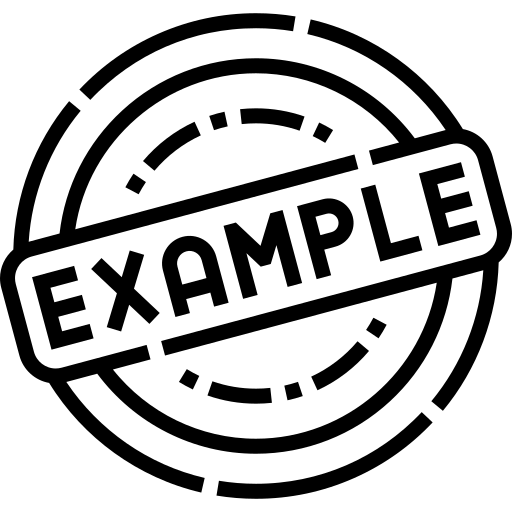
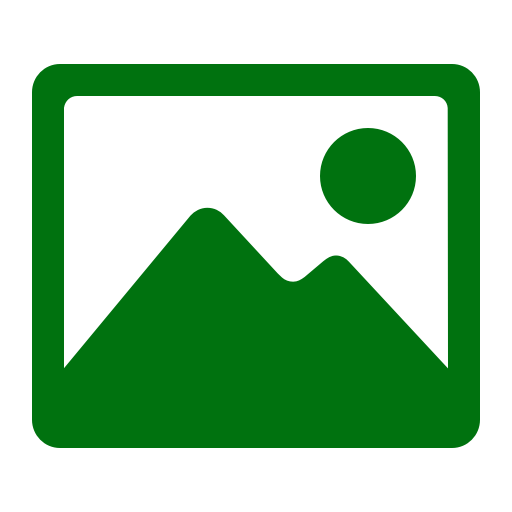
Add CSS guide, button styles, and update image
Expanded README with a new Language Comparison section and a comprehensive CSS guide (selectors, declarations, classes/IDs, pseudo-classes, transitions, and helpful hints). Adjusted heading "Tags vs Attributes vs Element" and removed a duplicated language-comparison block at the end of the file. Updated src/style.html to add .tweet-button and .shadow-button styles (with hover transitions/shadow) and inserted two demo buttons that trigger alerts. Updated the example image (binary file changed). These changes add documentation and a small interactive styling demo.

diff --git a/src/style.html b/src/style.html
@@ -23,6 +23,38 @@
         .important{
             color: red
         }
+
+        .tweet-button {
+            color: white;
+            background-color: blue;
+            border: none;
+            padding: 10px 20px;
+            font-size: 16px;
+            cursor: pointer;
+            height: 40px;
+            width: 100px;
+            border-radius: 20px;
+            transition: background-color 0.3s ease;
+        }
+            .tweet-button:hover {
+                background-color: lightblue;
+            }
+
+        .shadow-button {
+            color: white;
+            background-color: green;
+            border: none;
+            padding: 10px 20px;
+            font-size: 16px;
+            cursor: pointer;
+            height: 40px;
+            width: 100px;
+            border-radius: 20px;
+            transition: box-shadow 0.3s ease;
+        }
+            .shadow-button:hover {
+                box-shadow: 0 10px 16px white;
+            }
     </style>
 
     <h1>HTML Styling</h1>
@@ -38,6 +70,13 @@
     <p class="important">
         This is important!
     </p>
+
+    <button class="tweet-button" onclick="alert('You clicked the button!')">Tweet</button>
+    <!--Defines a button element that triggers a JavaScript alert when clicked. -->
+
+    
+    <button class="shadow-button" onclick="alert('You clicked the button!')">Hover</button>
+    <!--Defines a button element that triggers a JavaScript alert when clicked. -->
 
 </body>
 </html>

diff --git a/README.md b/README.md
@@ -18,6 +18,26 @@ However, there are certain elements, such as `<pre>`, that preserve white space.
 
 Even <p>Hello   world</p> will be rendered as "Hello world" in the browser, with only a single space between "Hello" and "world".
 
+ ## Language Comparison
+
+ ### HTML vs CSS
+ HTML is used to structure the content of a web page, while CSS (Cascading Style Sheets) is used to style and layout the content.
+ 
+ They work together to create visually appealing and well-structured web pages.
+ CSS applies styles to HTML elements, allowing developers to control the appearance of the web page, such as colors, fonts, and layout.
+
+ ### HTML vs JavaScript
+ HTML is used to structure the content of a web page, while JavaScript is a programming language that is used to add interactivity and dynamic behavior to web pages.
+
+ ### JavaScript vs TypeScript
+ JavaScript is a programming language that is commonly used for web development.
+ TypeScript is a superset of JavaScript that adds static typing and other features to the language.
+
+ TypeScript can help catch errors at compile time and improve code maintainability, while JavaScript is more flexible and widely supported across different environments.
+
+ Can be used together in a project, with TypeScript being transpiled to JavaScript for execution in the browser.
+ TypeScript cannot run directly in the browser, but it can be transpiled to JavaScript using tools like the TypeScript compiler (tsc) or Babel.
+
 ## Basics of web development
 Web development is the process of creating websites and web applications.
 
@@ -68,7 +88,7 @@ The basic structure of an HTML document includes the following elements:
  </html>
  ```
 
- ## Tags vs Attributes
+ ## Tags vs Attributes vs Element
  In HTML, tags are used to define elements, while attributes provide additional information about those elements.
  For example, in the `<a>` tag, `href` is an attribute that specifies the URL of the link:
  ```html
@@ -127,7 +147,6 @@ Symbols (Entitys):
  The index.html is the main entry point of the website. 
  It is the file that is loaded when a user visits the website.
 
-
  ## Terms
  Block-level elements: These elements typically start on a new line and take up the full width of their container. Examples include `<div>`, `<p>`, and `<h1>`.
  For example:
@@ -156,6 +175,104 @@ Symbols (Entitys):
  Do not rely on HTML elements being hidden or invisible for security purposes, as they can still be accessed and viewed by users through inspection tools.
  HTML is rendered on the client side, meaning that it is processed and displayed by the user's browser so do not include sensitive information in the HTML code, as it can be easily accessed by users.
 
+  ## CSS
+ To write CSS with an HTML document we need to add a style element <style>.
+
+Example:
+```html
+<style>
+  body {
+	background-color: lightblue;
+  }
+  h1 {
+	color: white;
+	text-align: center;
+  }
+  p {
+	font-family: verdana;
+	font-size: 20px;
+  }
+</style>
+```
+
+The first word in the CSS rule is called a selector, which specifies the HTML element to which the styles will be applied. 
+In the example above, `body`, `h1`, and `p` are selectors that target the `<body>`, `<h1>`, and `<p>` elements in the HTML document, respectively.
+
+Inside the brackets `{}`, we have a declaration block that contains one or more declarations. 
+Each declaration consists of a property and a value, separated by a colon `:`, and ends with a semicolon `;`.
+
+Example:
+```css
+body {
+  background-color: lightblue;
+  }
+```
+
+In this example, `background-color` is the property, and `lightblue` is the value.
+
+We can also write CSS in an external file and link it to the HTML document using the `<link>` element in the `<head>` section.
+Example:
+```html
+<link rel="stylesheet" href="styles.css">
+```
+
+In this example, `rel="stylesheet"` specifies that the linked file is a stylesheet, and `href="styles.css"` specifies the path to the CSS file.
+
+Instead of calling selectors by their tag name, we can also use classes and IDs to target specific elements in the HTML document.
+Example:
+```html
+<p class="my-class">This is a paragraph with a class.</p>
+<p id="my-id">This is a paragraph with an ID.</p>
+```
+
+In this example, we have added a class called `my-class` to the first paragraph and an ID called `my-id` to the second paragraph.
+We can then target these elements in our CSS using the class selector (.) and ID selector (#).
+Example:
+```css
+.my-class {
+  color: blue;
+  }
+  #my-id {
+  color: red;
+  }
+  ```
+
+
+  Helpful hints:
+	- Use classes when you want to apply the same styles to multiple elements, and use IDs when you want to target a specific element that is unique on the page.
+	- To make your CSS more efficient, try to avoid using overly specific selectors, as they can make it harder to maintain and update your styles in the future. Instead, use more general selectors and combine them with classes or IDs as needed.
+	- To make round buttons, you can use the `border-radius` property in CSS. For example, `border-radius: 50%;` will create a circular button, while `border-radius: 10px;` will create a button with rounded corners. Circular buttons are achievable by setting the border-radius to 50% the height and width of the button, while rounded corners can be achieved by setting a specific pixel value for the border-radius property. Which makes intutive sense becuase a radius of 50% mean the radius is half the size of the button, creating a perfect circle.
+	- There are multiple ways to change the size of elements in CSS, such as using the `width` and `height` properties, or using padding and margin to adjust the spacing around elements. Using padding and margin can be more flexible and responsive, as it allows you to adjust the spacing around the element content so you do not have to worry about the actual size of the element, which can be helpful when designing for different screen sizes and devices. However, using width and height can be more precise when you want to set specific dimensions for an element, such as a fixed-size image or button.
+
+### Pseudo-classes, Pseudo-elements, and Transitions
+
+To apply effects to elements when the user interacts with them, we can use pseudo-classes in CSS.
+
+For example, the `:hover` pseudo-class allows us to change the style of an element when the user hovers over it with their mouse.
+Example:
+```css
+button:hover {
+  background-color: lightgreen;
+  }
+ ```
+
+ In this example, when the user hovers over a button element, its background color will change to light green.
+
+ Transitions allow us to create smooth animations when the styles of an element change.
+ Example:
+ ```css
+ button {
+  background-color: lightblue;
+  transition: background-color 0.3s ease;
+  }
+  ```
+  In this example, when the background color of the button changes (such as on hover), it will transition smoothly over 0.3 seconds with an easing function of "ease".
+  We need to specify the property we want to transition (in this case, `background-color`), the duration of the transition (0.3 seconds), and the easing function (ease) to control the speed of the transition.
+
+  Transitions can be applied to various CSS properties, such as `color`, `width`, `height`, `opacity`, and more, allowing for a wide range of animation effects on web elements.
+  Transitions should always be set on the element's default state, not on the state that triggers the transition (like `:hover`), to ensure that the transition effect works correctly when the state changes.
+
+
  ## Validation
  ### HTML Validation
  HTML validation is the process of checking an HTML document against a set of rules and standards to ensure that it is well-formed and follows best practices.
@@ -167,23 +284,3 @@ Symbols (Entitys):
  ### CSS Validation
  
 CSS Valiation can be done at https://jigsaw.w3.org/css-validator/
- 
- ## Language Comparison
-
- ### HTML vs CSS
- HTML is used to structure the content of a web page, while CSS (Cascading Style Sheets) is used to style and layout the content.
- 
- They work together to create visually appealing and well-structured web pages.
- CSS applies styles to HTML elements, allowing developers to control the appearance of the web page, such as colors, fonts, and layout.
-
- ### HTML vs JavaScript
- HTML is used to structure the content of a web page, while JavaScript is a programming language that is used to add interactivity and dynamic behavior to web pages.
-
- ### JavaScript vs TypeScript
- JavaScript is a programming language that is commonly used for web development.
- TypeScript is a superset of JavaScript that adds static typing and other features to the language.
-
- TypeScript can help catch errors at compile time and improve code maintainability, while JavaScript is more flexible and widely supported across different environments.
-
- Can be used together in a project, with TypeScript being transpiled to JavaScript for execution in the browser.
- TypeScript cannot run directly in the browser, but it can be transpiled to JavaScript using tools like the TypeScript compiler (tsc) or Babel.